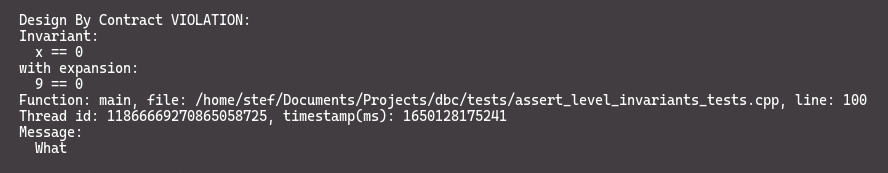
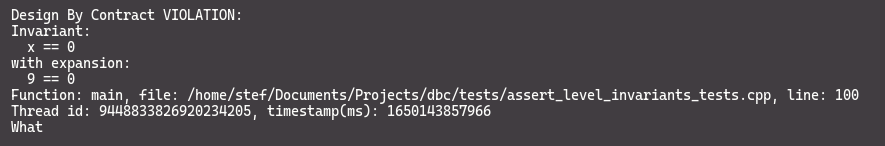
output formatting

Changed region(s): [[0.0, 0.274, 0.9763, 0.9041], [0.0, 0.0548, 0.2746, 0.2466]]

diff --git a/docs/html/error__reporting_8hpp_source.html b/docs/html/error__reporting_8hpp_source.html
@@ -130,7 +130,7 @@ $(function() {
 <div class="line"><a name="l00076"></a><span class="lineno">   76</span>&#160;    }</div>
 <div class="line"><a name="l00077"></a><span class="lineno">   77</span>&#160;}</div>
 <div class="line"><a name="l00078"></a><span class="lineno">   78</span>&#160; </div>
-<div class="line"><a name="l00085"></a><span class="lineno"><a class="line" href="structdbc_1_1violation__context.html">   85</a></span>&#160;<span class="keyword">struct </span><a class="code" href="structdbc_1_1violation__context.html">violation_context</a> <span class="comment">// TODO add lhs and rhs operands and decompose</span></div>
+<div class="line"><a name="l00085"></a><span class="lineno"><a class="line" href="structdbc_1_1violation__context.html">   85</a></span>&#160;<span class="keyword">struct </span><a class="code" href="structdbc_1_1violation__context.html">violation_context</a></div>
 <div class="line"><a name="l00086"></a><span class="lineno">   86</span>&#160;{</div>
 <div class="line"><a name="l00087"></a><span class="lineno">   87</span>&#160;    <a class="code" href="group__error__reporting.html#gaa0efa60436efa5fe05a0ca695bbaeba4">contract</a> type;</div>
 <div class="line"><a name="l00088"></a><span class="lineno">   88</span>&#160;    std::string_view condition; <span class="comment">// a boolean expression string_view representation, always false</span></div>
@@ -147,103 +147,105 @@ $(function() {
 <div class="line"><a name="l00099"></a><span class="lineno">   99</span>&#160;};</div>
 <div class="line"><a name="l00100"></a><span class="lineno">  100</span>&#160; </div>
 <div class="line"><a name="l00117"></a><span class="lineno"><a class="line" href="group__error__reporting.html#ga2bb10c5d751d9455eb6369a73ec3b53e">  117</a></span>&#160;<span class="keyword">auto</span> <a class="code" href="group__error__reporting.html#ga2bb10c5d751d9455eb6369a73ec3b53e">operator&lt;&lt;</a>(std::ostream&amp; os, <span class="keyword">const</span> <a class="code" href="structdbc_1_1violation__context.html">violation_context</a>&amp; context) -&gt; std::ostream&amp;;</div>
-<div class="line"><a name="l00118"></a><span class="lineno">  118</span>&#160;<span class="comment">// TODO Colors!</span></div>
-<div class="line"><a name="l00119"></a><span class="lineno">  119</span>&#160; </div>
-<div class="line"><a name="l00120"></a><span class="lineno">  120</span>&#160;<span class="keyword">namespace </span>details</div>
-<div class="line"><a name="l00121"></a><span class="lineno">  121</span>&#160;{</div>
-<div class="line"><a name="l00122"></a><span class="lineno">  122</span>&#160;    <span class="comment">// Produces a violation context.</span></div>
-<div class="line"><a name="l00124"></a><span class="lineno">  124</span>&#160;<span class="comment"></span>    <span class="keyword">auto</span> make_context(<a class="code" href="group__error__reporting.html#gaa0efa60436efa5fe05a0ca695bbaeba4">contract</a> type, std::string_view condition, <span class="keyword">const</span> std::string&amp; decomposition,</div>
-<div class="line"><a name="l00125"></a><span class="lineno">  125</span>&#160;                      std::string_view <span class="keyword">function</span>, std::string_view file, int32_t line,</div>
-<div class="line"><a name="l00126"></a><span class="lineno">  126</span>&#160;                      std::string_view message) -&gt; <a class="code" href="structdbc_1_1violation__context.html">violation_context</a>;</div>
-<div class="line"><a name="l00127"></a><span class="lineno">  127</span>&#160; </div>
-<div class="line"><a name="l00128"></a><span class="lineno">  128</span>&#160;    <span class="keyword">struct </span>lhs_decomposer; <span class="comment">// fwd declaration</span></div>
-<div class="line"><a name="l00129"></a><span class="lineno">  129</span>&#160; </div>
-<div class="line"><a name="l00130"></a><span class="lineno">  130</span>&#160;    <span class="comment">// Decomposes a boolean expression, given its left hand side operand</span></div>
-<div class="line"><a name="l00131"></a><span class="lineno">  131</span>&#160;    <span class="comment">// Makes use of the operator overloads to deduce the right hand operand and the operation.</span></div>
+<div class="line"><a name="l00118"></a><span class="lineno">  118</span>&#160; </div>
+<div class="line"><a name="l00119"></a><span class="lineno">  119</span>&#160;<span class="keyword">namespace </span>details</div>
+<div class="line"><a name="l00120"></a><span class="lineno">  120</span>&#160;{</div>
+<div class="line"><a name="l00121"></a><span class="lineno">  121</span>&#160;    <span class="comment">// Produces a violation context.</span></div>
+<div class="line"><a name="l00123"></a><span class="lineno">  123</span>&#160;<span class="comment"></span>    <span class="keyword">auto</span> make_context(<a class="code" href="group__error__reporting.html#gaa0efa60436efa5fe05a0ca695bbaeba4">contract</a> type, std::string_view condition, <span class="keyword">const</span> std::string&amp; decomposition,</div>
+<div class="line"><a name="l00124"></a><span class="lineno">  124</span>&#160;                      std::string_view <span class="keyword">function</span>, std::string_view file, int32_t line,</div>
+<div class="line"><a name="l00125"></a><span class="lineno">  125</span>&#160;                      std::string_view message) -&gt; <a class="code" href="structdbc_1_1violation__context.html">violation_context</a>;</div>
+<div class="line"><a name="l00126"></a><span class="lineno">  126</span>&#160; </div>
+<div class="line"><a name="l00127"></a><span class="lineno">  127</span>&#160;    <span class="comment">//</span></div>
+<div class="line"><a name="l00128"></a><span class="lineno">  128</span>&#160;    <span class="comment">// Credits to: https://theheisenbugblog.wordpress.com/2014/09/06/c-expression-decomposition/</span></div>
+<div class="line"><a name="l00129"></a><span class="lineno">  129</span>&#160;    <span class="comment">//</span></div>
+<div class="line"><a name="l00130"></a><span class="lineno">  130</span>&#160; </div>
+<div class="line"><a name="l00131"></a><span class="lineno">  131</span>&#160;    <span class="keyword">struct </span>lhs_decomposer; <span class="comment">// fwd declaration</span></div>
 <div class="line"><a name="l00132"></a><span class="lineno">  132</span>&#160; </div>
-<div class="line"><a name="l00133"></a><span class="lineno">  133</span>&#160;    <span class="keyword">class </span>rhs_decomposer</div>
-<div class="line"><a name="l00134"></a><span class="lineno">  134</span>&#160;    {</div>
-<div class="line"><a name="l00135"></a><span class="lineno">  135</span>&#160;    <span class="keyword">public</span>:</div>
-<div class="line"><a name="l00136"></a><span class="lineno">  136</span>&#160;        <span class="keyword">template</span> &lt;<span class="keyword">typename</span> T&gt;</div>
-<div class="line"><a name="l00137"></a><span class="lineno">  137</span>&#160;        <span class="keyword">explicit</span> rhs_decomposer(<span class="keyword">const</span> T&amp; lhs)</div>
-<div class="line"><a name="l00138"></a><span class="lineno">  138</span>&#160;        {</div>
-<div class="line"><a name="l00139"></a><span class="lineno">  139</span>&#160;            ss &lt;&lt; lhs;</div>
-<div class="line"><a name="l00140"></a><span class="lineno">  140</span>&#160;        }</div>
-<div class="line"><a name="l00141"></a><span class="lineno">  141</span>&#160; </div>
-<div class="line"><a name="l00142"></a><span class="lineno">  142</span>&#160;        <span class="keyword">template</span> &lt;<span class="keyword">typename</span> T&gt;</div>
-<div class="line"><a name="l00143"></a><span class="lineno">  143</span>&#160;        <span class="keyword">auto</span> operator==(<span class="keyword">const</span> T&amp; rhs) -&gt; <span class="keyword">const</span> <span class="keyword">auto</span>&amp;</div>
-<div class="line"><a name="l00144"></a><span class="lineno">  144</span>&#160;        {</div>
-<div class="line"><a name="l00145"></a><span class="lineno">  145</span>&#160;            ss &lt;&lt; <span class="stringliteral">&quot; == &quot;</span> &lt;&lt; rhs;</div>
-<div class="line"><a name="l00146"></a><span class="lineno">  146</span>&#160;            <span class="keywordflow">return</span> *<span class="keyword">this</span>;</div>
-<div class="line"><a name="l00147"></a><span class="lineno">  147</span>&#160;        }</div>
-<div class="line"><a name="l00148"></a><span class="lineno">  148</span>&#160; </div>
-<div class="line"><a name="l00149"></a><span class="lineno">  149</span>&#160;        <span class="keyword">template</span> &lt;<span class="keyword">typename</span> T&gt;</div>
-<div class="line"><a name="l00150"></a><span class="lineno">  150</span>&#160;        <span class="keyword">auto</span> operator!=(<span class="keyword">const</span> T&amp; rhs) -&gt; <span class="keyword">const</span> <span class="keyword">auto</span>&amp;</div>
-<div class="line"><a name="l00151"></a><span class="lineno">  151</span>&#160;        {</div>
-<div class="line"><a name="l00152"></a><span class="lineno">  152</span>&#160;            ss &lt;&lt; <span class="stringliteral">&quot; != &quot;</span> &lt;&lt; rhs;</div>
-<div class="line"><a name="l00153"></a><span class="lineno">  153</span>&#160;            <span class="keywordflow">return</span> *<span class="keyword">this</span>;</div>
-<div class="line"><a name="l00154"></a><span class="lineno">  154</span>&#160;        }</div>
-<div class="line"><a name="l00155"></a><span class="lineno">  155</span>&#160; </div>
-<div class="line"><a name="l00156"></a><span class="lineno">  156</span>&#160;        <span class="keyword">template</span> &lt;<span class="keyword">typename</span> T&gt;</div>
-<div class="line"><a name="l00157"></a><span class="lineno">  157</span>&#160;        <span class="keyword">auto</span> operator&lt;(<span class="keyword">const</span> T&amp; rhs) -&gt; <span class="keyword">const</span> <span class="keyword">auto</span>&amp;</div>
-<div class="line"><a name="l00158"></a><span class="lineno">  158</span>&#160;        {</div>
-<div class="line"><a name="l00159"></a><span class="lineno">  159</span>&#160;            ss &lt;&lt; <span class="stringliteral">&quot; &lt; &quot;</span> &lt;&lt; rhs;</div>
-<div class="line"><a name="l00160"></a><span class="lineno">  160</span>&#160;            <span class="keywordflow">return</span> *<span class="keyword">this</span>;</div>
-<div class="line"><a name="l00161"></a><span class="lineno">  161</span>&#160;        }</div>
-<div class="line"><a name="l00162"></a><span class="lineno">  162</span>&#160; </div>
-<div class="line"><a name="l00163"></a><span class="lineno">  163</span>&#160;        <span class="keyword">template</span> &lt;<span class="keyword">typename</span> T&gt;</div>
-<div class="line"><a name="l00164"></a><span class="lineno">  164</span>&#160;        <span class="keyword">auto</span> operator&gt;(<span class="keyword">const</span> T&amp; rhs) -&gt; <span class="keyword">const</span> <span class="keyword">auto</span>&amp;</div>
-<div class="line"><a name="l00165"></a><span class="lineno">  165</span>&#160;        {</div>
-<div class="line"><a name="l00166"></a><span class="lineno">  166</span>&#160;            ss &lt;&lt; <span class="stringliteral">&quot; &gt; &quot;</span> &lt;&lt; rhs;</div>
-<div class="line"><a name="l00167"></a><span class="lineno">  167</span>&#160;            <span class="keywordflow">return</span> *<span class="keyword">this</span>;</div>
-<div class="line"><a name="l00168"></a><span class="lineno">  168</span>&#160;        }</div>
-<div class="line"><a name="l00169"></a><span class="lineno">  169</span>&#160; </div>
-<div class="line"><a name="l00170"></a><span class="lineno">  170</span>&#160;        <span class="keyword">template</span> &lt;<span class="keyword">typename</span> T&gt;</div>
-<div class="line"><a name="l00171"></a><span class="lineno">  171</span>&#160;        <span class="keyword">auto</span> operator&lt;=(<span class="keyword">const</span> T&amp; rhs) -&gt; <span class="keyword">const</span> <span class="keyword">auto</span>&amp;</div>
-<div class="line"><a name="l00172"></a><span class="lineno">  172</span>&#160;        {</div>
-<div class="line"><a name="l00173"></a><span class="lineno">  173</span>&#160;            ss &lt;&lt; <span class="stringliteral">&quot; &lt;= &quot;</span> &lt;&lt; rhs;</div>
-<div class="line"><a name="l00174"></a><span class="lineno">  174</span>&#160;            <span class="keywordflow">return</span> *<span class="keyword">this</span>;</div>
-<div class="line"><a name="l00175"></a><span class="lineno">  175</span>&#160;        }</div>
-<div class="line"><a name="l00176"></a><span class="lineno">  176</span>&#160; </div>
-<div class="line"><a name="l00177"></a><span class="lineno">  177</span>&#160;        <span class="keyword">template</span> &lt;<span class="keyword">typename</span> T&gt;</div>
-<div class="line"><a name="l00178"></a><span class="lineno">  178</span>&#160;        <span class="keyword">auto</span> operator&gt;=(<span class="keyword">const</span> T&amp; rhs) -&gt; <span class="keyword">const</span> <span class="keyword">auto</span>&amp;</div>
-<div class="line"><a name="l00179"></a><span class="lineno">  179</span>&#160;        {</div>
-<div class="line"><a name="l00180"></a><span class="lineno">  180</span>&#160;            ss &lt;&lt; <span class="stringliteral">&quot; &gt;= &quot;</span> &lt;&lt; rhs;</div>
-<div class="line"><a name="l00181"></a><span class="lineno">  181</span>&#160;            <span class="keywordflow">return</span> *<span class="keyword">this</span>;</div>
-<div class="line"><a name="l00182"></a><span class="lineno">  182</span>&#160;        }</div>
-<div class="line"><a name="l00183"></a><span class="lineno">  183</span>&#160; </div>
-<div class="line"><a name="l00184"></a><span class="lineno">  184</span>&#160;        <span class="comment">// Returns an std::string decomposition of the boolean expression, of the form:</span></div>
-<div class="line"><a name="l00185"></a><span class="lineno">  185</span>&#160;        <span class="comment">//&quot;&#39;lhs&#39; &#39;operation&#39; &#39;rhs&#39;&quot;&quot;</span></div>
-<div class="line"><a name="l00186"></a><span class="lineno">  186</span>&#160;        <span class="keyword">auto</span> decomposition() <span class="keyword">const</span> -&gt; <span class="keyword">auto</span> { <span class="keywordflow">return</span> ss.str(); }</div>
-<div class="line"><a name="l00187"></a><span class="lineno">  187</span>&#160; </div>
-<div class="line"><a name="l00188"></a><span class="lineno">  188</span>&#160;    <span class="keyword">private</span>:</div>
-<div class="line"><a name="l00189"></a><span class="lineno">  189</span>&#160;        std::stringstream ss;</div>
-<div class="line"><a name="l00190"></a><span class="lineno">  190</span>&#160;    };</div>
-<div class="line"><a name="l00191"></a><span class="lineno">  191</span>&#160; </div>
-<div class="line"><a name="l00192"></a><span class="lineno">  192</span>&#160;    <span class="comment">// Hepler struct, forwards a left hand side opperand to a right hand side decomposer</span></div>
-<div class="line"><a name="l00193"></a><span class="lineno">  193</span>&#160;    <span class="keyword">struct </span>lhs_decomposer</div>
-<div class="line"><a name="l00194"></a><span class="lineno">  194</span>&#160;    {</div>
-<div class="line"><a name="l00195"></a><span class="lineno">  195</span>&#160;        <span class="keyword">template</span> &lt;<span class="keyword">typename</span> T&gt;</div>
-<div class="line"><a name="l00196"></a><span class="lineno">  196</span>&#160;        <span class="keyword">auto</span> operator-&gt;*(<span class="keyword">const</span> T&amp; lhs) <span class="keyword">const</span> -&gt; <span class="keyword">auto</span></div>
-<div class="line"><a name="l00197"></a><span class="lineno">  197</span>&#160;        {</div>
-<div class="line"><a name="l00198"></a><span class="lineno">  198</span>&#160;            <span class="keywordflow">return</span> rhs_decomposer{lhs};</div>
-<div class="line"><a name="l00199"></a><span class="lineno">  199</span>&#160;        }</div>
-<div class="line"><a name="l00200"></a><span class="lineno">  200</span>&#160;    };</div>
-<div class="line"><a name="l00201"></a><span class="lineno">  201</span>&#160; </div>
-<div class="line"><a name="l00202"></a><span class="lineno">  202</span>&#160;} <span class="comment">// namespace details</span></div>
+<div class="line"><a name="l00133"></a><span class="lineno">  133</span>&#160;    <span class="comment">// Decomposes a boolean expression, given its left hand side operand</span></div>
+<div class="line"><a name="l00134"></a><span class="lineno">  134</span>&#160;    <span class="comment">// Makes use of the operator overloads to deduce the right hand operand and the operation.</span></div>
+<div class="line"><a name="l00135"></a><span class="lineno">  135</span>&#160;    <span class="keyword">class </span>rhs_decomposer</div>
+<div class="line"><a name="l00136"></a><span class="lineno">  136</span>&#160;    {</div>
+<div class="line"><a name="l00137"></a><span class="lineno">  137</span>&#160;    <span class="keyword">public</span>:</div>
+<div class="line"><a name="l00138"></a><span class="lineno">  138</span>&#160;        <span class="keyword">template</span> &lt;<span class="keyword">typename</span> T&gt;</div>
+<div class="line"><a name="l00139"></a><span class="lineno">  139</span>&#160;        <span class="keyword">explicit</span> rhs_decomposer(<span class="keyword">const</span> T&amp; lhs)</div>
+<div class="line"><a name="l00140"></a><span class="lineno">  140</span>&#160;        {</div>
+<div class="line"><a name="l00141"></a><span class="lineno">  141</span>&#160;            ss &lt;&lt; lhs;</div>
+<div class="line"><a name="l00142"></a><span class="lineno">  142</span>&#160;        }</div>
+<div class="line"><a name="l00143"></a><span class="lineno">  143</span>&#160; </div>
+<div class="line"><a name="l00144"></a><span class="lineno">  144</span>&#160;        <span class="keyword">template</span> &lt;<span class="keyword">typename</span> T&gt;</div>
+<div class="line"><a name="l00145"></a><span class="lineno">  145</span>&#160;        <span class="keyword">auto</span> operator==(<span class="keyword">const</span> T&amp; rhs) -&gt; <span class="keyword">const</span> <span class="keyword">auto</span>&amp;</div>
+<div class="line"><a name="l00146"></a><span class="lineno">  146</span>&#160;        {</div>
+<div class="line"><a name="l00147"></a><span class="lineno">  147</span>&#160;            ss &lt;&lt; <span class="stringliteral">&quot; == &quot;</span> &lt;&lt; rhs;</div>
+<div class="line"><a name="l00148"></a><span class="lineno">  148</span>&#160;            <span class="keywordflow">return</span> *<span class="keyword">this</span>;</div>
+<div class="line"><a name="l00149"></a><span class="lineno">  149</span>&#160;        }</div>
+<div class="line"><a name="l00150"></a><span class="lineno">  150</span>&#160; </div>
+<div class="line"><a name="l00151"></a><span class="lineno">  151</span>&#160;        <span class="keyword">template</span> &lt;<span class="keyword">typename</span> T&gt;</div>
+<div class="line"><a name="l00152"></a><span class="lineno">  152</span>&#160;        <span class="keyword">auto</span> operator!=(<span class="keyword">const</span> T&amp; rhs) -&gt; <span class="keyword">const</span> <span class="keyword">auto</span>&amp;</div>
+<div class="line"><a name="l00153"></a><span class="lineno">  153</span>&#160;        {</div>
+<div class="line"><a name="l00154"></a><span class="lineno">  154</span>&#160;            ss &lt;&lt; <span class="stringliteral">&quot; != &quot;</span> &lt;&lt; rhs;</div>
+<div class="line"><a name="l00155"></a><span class="lineno">  155</span>&#160;            <span class="keywordflow">return</span> *<span class="keyword">this</span>;</div>
+<div class="line"><a name="l00156"></a><span class="lineno">  156</span>&#160;        }</div>
+<div class="line"><a name="l00157"></a><span class="lineno">  157</span>&#160; </div>
+<div class="line"><a name="l00158"></a><span class="lineno">  158</span>&#160;        <span class="keyword">template</span> &lt;<span class="keyword">typename</span> T&gt;</div>
+<div class="line"><a name="l00159"></a><span class="lineno">  159</span>&#160;        <span class="keyword">auto</span> operator&lt;(<span class="keyword">const</span> T&amp; rhs) -&gt; <span class="keyword">const</span> <span class="keyword">auto</span>&amp;</div>
+<div class="line"><a name="l00160"></a><span class="lineno">  160</span>&#160;        {</div>
+<div class="line"><a name="l00161"></a><span class="lineno">  161</span>&#160;            ss &lt;&lt; <span class="stringliteral">&quot; &lt; &quot;</span> &lt;&lt; rhs;</div>
+<div class="line"><a name="l00162"></a><span class="lineno">  162</span>&#160;            <span class="keywordflow">return</span> *<span class="keyword">this</span>;</div>
+<div class="line"><a name="l00163"></a><span class="lineno">  163</span>&#160;        }</div>
+<div class="line"><a name="l00164"></a><span class="lineno">  164</span>&#160; </div>
+<div class="line"><a name="l00165"></a><span class="lineno">  165</span>&#160;        <span class="keyword">template</span> &lt;<span class="keyword">typename</span> T&gt;</div>
+<div class="line"><a name="l00166"></a><span class="lineno">  166</span>&#160;        <span class="keyword">auto</span> operator&gt;(<span class="keyword">const</span> T&amp; rhs) -&gt; <span class="keyword">const</span> <span class="keyword">auto</span>&amp;</div>
+<div class="line"><a name="l00167"></a><span class="lineno">  167</span>&#160;        {</div>
+<div class="line"><a name="l00168"></a><span class="lineno">  168</span>&#160;            ss &lt;&lt; <span class="stringliteral">&quot; &gt; &quot;</span> &lt;&lt; rhs;</div>
+<div class="line"><a name="l00169"></a><span class="lineno">  169</span>&#160;            <span class="keywordflow">return</span> *<span class="keyword">this</span>;</div>
+<div class="line"><a name="l00170"></a><span class="lineno">  170</span>&#160;        }</div>
+<div class="line"><a name="l00171"></a><span class="lineno">  171</span>&#160; </div>
+<div class="line"><a name="l00172"></a><span class="lineno">  172</span>&#160;        <span class="keyword">template</span> &lt;<span class="keyword">typename</span> T&gt;</div>
+<div class="line"><a name="l00173"></a><span class="lineno">  173</span>&#160;        <span class="keyword">auto</span> operator&lt;=(<span class="keyword">const</span> T&amp; rhs) -&gt; <span class="keyword">const</span> <span class="keyword">auto</span>&amp;</div>
+<div class="line"><a name="l00174"></a><span class="lineno">  174</span>&#160;        {</div>
+<div class="line"><a name="l00175"></a><span class="lineno">  175</span>&#160;            ss &lt;&lt; <span class="stringliteral">&quot; &lt;= &quot;</span> &lt;&lt; rhs;</div>
+<div class="line"><a name="l00176"></a><span class="lineno">  176</span>&#160;            <span class="keywordflow">return</span> *<span class="keyword">this</span>;</div>
+<div class="line"><a name="l00177"></a><span class="lineno">  177</span>&#160;        }</div>
+<div class="line"><a name="l00178"></a><span class="lineno">  178</span>&#160; </div>
+<div class="line"><a name="l00179"></a><span class="lineno">  179</span>&#160;        <span class="keyword">template</span> &lt;<span class="keyword">typename</span> T&gt;</div>
+<div class="line"><a name="l00180"></a><span class="lineno">  180</span>&#160;        <span class="keyword">auto</span> operator&gt;=(<span class="keyword">const</span> T&amp; rhs) -&gt; <span class="keyword">const</span> <span class="keyword">auto</span>&amp;</div>
+<div class="line"><a name="l00181"></a><span class="lineno">  181</span>&#160;        {</div>
+<div class="line"><a name="l00182"></a><span class="lineno">  182</span>&#160;            ss &lt;&lt; <span class="stringliteral">&quot; &gt;= &quot;</span> &lt;&lt; rhs;</div>
+<div class="line"><a name="l00183"></a><span class="lineno">  183</span>&#160;            <span class="keywordflow">return</span> *<span class="keyword">this</span>;</div>
+<div class="line"><a name="l00184"></a><span class="lineno">  184</span>&#160;        }</div>
+<div class="line"><a name="l00185"></a><span class="lineno">  185</span>&#160; </div>
+<div class="line"><a name="l00186"></a><span class="lineno">  186</span>&#160;        <span class="comment">// Returns an std::string decomposition of the boolean expression, of the form:</span></div>
+<div class="line"><a name="l00187"></a><span class="lineno">  187</span>&#160;        <span class="comment">//&quot;&#39;lhs&#39; &#39;operation&#39; &#39;rhs&#39;&quot;&quot;</span></div>
+<div class="line"><a name="l00188"></a><span class="lineno">  188</span>&#160;        <span class="keyword">auto</span> decomposition() <span class="keyword">const</span> -&gt; <span class="keyword">auto</span> { <span class="keywordflow">return</span> ss.str(); }</div>
+<div class="line"><a name="l00189"></a><span class="lineno">  189</span>&#160; </div>
+<div class="line"><a name="l00190"></a><span class="lineno">  190</span>&#160;    <span class="keyword">private</span>:</div>
+<div class="line"><a name="l00191"></a><span class="lineno">  191</span>&#160;        std::stringstream ss;</div>
+<div class="line"><a name="l00192"></a><span class="lineno">  192</span>&#160;    };</div>
+<div class="line"><a name="l00193"></a><span class="lineno">  193</span>&#160; </div>
+<div class="line"><a name="l00194"></a><span class="lineno">  194</span>&#160;    <span class="comment">// Hepler struct, forwards a left hand side opperand to a right hand side decomposer</span></div>
+<div class="line"><a name="l00195"></a><span class="lineno">  195</span>&#160;    <span class="keyword">struct </span>lhs_decomposer</div>
+<div class="line"><a name="l00196"></a><span class="lineno">  196</span>&#160;    {</div>
+<div class="line"><a name="l00197"></a><span class="lineno">  197</span>&#160;        <span class="keyword">template</span> &lt;<span class="keyword">typename</span> T&gt;</div>
+<div class="line"><a name="l00198"></a><span class="lineno">  198</span>&#160;        <span class="keyword">auto</span> operator-&gt;*(<span class="keyword">const</span> T&amp; lhs) <span class="keyword">const</span> -&gt; <span class="keyword">auto</span></div>
+<div class="line"><a name="l00199"></a><span class="lineno">  199</span>&#160;        {</div>
+<div class="line"><a name="l00200"></a><span class="lineno">  200</span>&#160;            <span class="keywordflow">return</span> rhs_decomposer{lhs};</div>
+<div class="line"><a name="l00201"></a><span class="lineno">  201</span>&#160;        }</div>
+<div class="line"><a name="l00202"></a><span class="lineno">  202</span>&#160;    };</div>
 <div class="line"><a name="l00203"></a><span class="lineno">  203</span>&#160; </div>
-<div class="line"><a name="l00204"></a><span class="lineno">  204</span>&#160;} <span class="comment">// namespace dbc</span></div>
+<div class="line"><a name="l00204"></a><span class="lineno">  204</span>&#160;} <span class="comment">// namespace details</span></div>
 <div class="line"><a name="l00205"></a><span class="lineno">  205</span>&#160; </div>
-<div class="line"><a name="l00206"></a><span class="lineno">  206</span>&#160;<span class="comment">// Utility macro to obtain an std::string decomposition of a boolean expression</span></div>
-<div class="line"><a name="l00207"></a><span class="lineno">  207</span>&#160;<span class="preprocessor">#define DBC_DECOMPOSE(expr)                                                                        \</span></div>
-<div class="line"><a name="l00208"></a><span class="lineno">  208</span>&#160;<span class="preprocessor">    ([]() -&gt; dbc::details::lhs_decomposer { return {}; }()-&gt;*expr).decomposition()</span></div>
-<div class="line"><a name="l00209"></a><span class="lineno">  209</span>&#160; </div>
-<div class="line"><a name="l00210"></a><span class="lineno">  210</span>&#160;<span class="comment">// Utility macro to obtain __FUNCTION__, __FILE__ and __LINE__</span></div>
-<div class="line"><a name="l00211"></a><span class="lineno">  211</span>&#160;<span class="preprocessor">#define DBC_GET_CONTEXT(type, condition, message)                                                  \</span></div>
-<div class="line"><a name="l00212"></a><span class="lineno">  212</span>&#160;<span class="preprocessor">    dbc::details::make_context(type, #condition, DBC_DECOMPOSE(condition), __FUNCTION__, __FILE__, \</span></div>
-<div class="line"><a name="l00213"></a><span class="lineno">  213</span>&#160;<span class="preprocessor">                               __LINE__, message)</span></div>
-<div class="line"><a name="l00214"></a><span class="lineno">  214</span>&#160; </div>
-<div class="line"><a name="l00217"></a><span class="lineno">  217</span>&#160;<span class="preprocessor">#endif </span><span class="comment">// DBC_ERROR_REPORTING_H</span></div>
+<div class="line"><a name="l00206"></a><span class="lineno">  206</span>&#160;} <span class="comment">// namespace dbc</span></div>
+<div class="line"><a name="l00207"></a><span class="lineno">  207</span>&#160; </div>
+<div class="line"><a name="l00208"></a><span class="lineno">  208</span>&#160;<span class="comment">// Utility macro to obtain an std::string decomposition of a boolean expression</span></div>
+<div class="line"><a name="l00209"></a><span class="lineno">  209</span>&#160;<span class="preprocessor">#define DBC_DECOMPOSE(expr)                                                                        \</span></div>
+<div class="line"><a name="l00210"></a><span class="lineno">  210</span>&#160;<span class="preprocessor">    ([]() -&gt; dbc::details::lhs_decomposer { return {}; }()-&gt;*expr).decomposition()</span></div>
+<div class="line"><a name="l00211"></a><span class="lineno">  211</span>&#160; </div>
+<div class="line"><a name="l00212"></a><span class="lineno">  212</span>&#160;<span class="comment">// Utility macro to obtain __FUNCTION__, __FILE__ and __LINE__</span></div>
+<div class="line"><a name="l00213"></a><span class="lineno">  213</span>&#160;<span class="preprocessor">#define DBC_GET_CONTEXT(type, condition, message)                                                  \</span></div>
+<div class="line"><a name="l00214"></a><span class="lineno">  214</span>&#160;<span class="preprocessor">    dbc::details::make_context(type, #condition, DBC_DECOMPOSE(condition), __FUNCTION__, __FILE__, \</span></div>
+<div class="line"><a name="l00215"></a><span class="lineno">  215</span>&#160;<span class="preprocessor">                               __LINE__, message)</span></div>
+<div class="line"><a name="l00216"></a><span class="lineno">  216</span>&#160; </div>
+<div class="line"><a name="l00219"></a><span class="lineno">  219</span>&#160;<span class="preprocessor">#endif </span><span class="comment">// DBC_ERROR_REPORTING_H</span></div>
 <div class="ttc" id="agroup__error__reporting_html_ga2bb10c5d751d9455eb6369a73ec3b53e"><div class="ttname"><a href="group__error__reporting.html#ga2bb10c5d751d9455eb6369a73ec3b53e">dbc::operator&lt;&lt;</a></div><div class="ttdeci">auto operator&lt;&lt;(std::ostream &amp;os, const violation_context &amp;context) -&gt; std::ostream &amp;</div><div class="ttdoc">Operator &lt;&lt; overload for a dbc::violation_context.</div></div>
 <div class="ttc" id="agroup__error__reporting_html_ga50e2d3f289ff17ebfd01057cd2060741"><div class="ttname"><a href="group__error__reporting.html#ga50e2d3f289ff17ebfd01057cd2060741">dbc::to_string_view</a></div><div class="ttdeci">constexpr auto to_string_view(contract type) noexcept</div><div class="ttdoc">Returns an std::string_view representation of a dbc::contract.</div><div class="ttdef"><b>Definition:</b> error_reporting.hpp:61</div></div>
 <div class="ttc" id="agroup__error__reporting_html_gaa0efa60436efa5fe05a0ca695bbaeba4"><div class="ttname"><a href="group__error__reporting.html#gaa0efa60436efa5fe05a0ca695bbaeba4">dbc::contract</a></div><div class="ttdeci">contract</div><div class="ttdoc">A Design By Contract contract enumeration.</div><div class="ttdef"><b>Definition:</b> error_reporting.hpp:47</div></div>

diff --git a/docs/html/error__handling_8hpp_source.html b/docs/html/error__handling_8hpp_source.html
@@ -121,30 +121,28 @@ $(function() {
 <div class="line"><a name="l00075"></a><span class="lineno">   75</span>&#160;    <a class="code" href="structdbc_1_1violation__context.html">violation_context</a> m_context;</div>
 <div class="line"><a name="l00076"></a><span class="lineno">   76</span>&#160;};</div>
 <div class="line"><a name="l00077"></a><span class="lineno">   77</span>&#160; </div>
-<div class="line"><a name="l00078"></a><span class="lineno">   78</span>&#160;<span class="comment">// TODO Add stack trace printer</span></div>
-<div class="line"><a name="l00079"></a><span class="lineno">   79</span>&#160; </div>
-<div class="line"><a name="l00087"></a><span class="lineno"><a class="line" href="group__error__handling.html#ga13bd65f3b8a1a207b5f54656ea2a5ffb">   87</a></span>&#160;[[noreturn]] <span class="keywordtype">void</span> <a class="code" href="group__error__handling.html#ga13bd65f3b8a1a207b5f54656ea2a5ffb">abort_handler</a>(<span class="keyword">const</span> <a class="code" href="structdbc_1_1violation__context.html">violation_context</a>&amp; context);</div>
-<div class="line"><a name="l00088"></a><span class="lineno">   88</span>&#160; </div>
-<div class="line"><a name="l00094"></a><span class="lineno"><a class="line" href="group__error__handling.html#gaefd993125ae87d0ed1d16a1be978e6fb">   94</a></span>&#160;[[noreturn]] <span class="keyword">inline</span> <span class="keywordtype">void</span> <a class="code" href="group__error__handling.html#gaefd993125ae87d0ed1d16a1be978e6fb">throw_handler</a>(<span class="keyword">const</span> <a class="code" href="structdbc_1_1violation__context.html">violation_context</a>&amp; context)</div>
-<div class="line"><a name="l00095"></a><span class="lineno">   95</span>&#160;{</div>
-<div class="line"><a name="l00096"></a><span class="lineno">   96</span>&#160;    <span class="keywordflow">throw</span> <a class="code" href="classdbc_1_1contract__violation.html">contract_violation</a>{context};</div>
-<div class="line"><a name="l00097"></a><span class="lineno">   97</span>&#160;}</div>
-<div class="line"><a name="l00098"></a><span class="lineno">   98</span>&#160; </div>
-<div class="line"><a name="l00099"></a><span class="lineno">   99</span>&#160;<span class="keyword">namespace </span>details</div>
-<div class="line"><a name="l00100"></a><span class="lineno">  100</span>&#160;{</div>
-<div class="line"><a name="l00101"></a><span class="lineno">  101</span>&#160;    <span class="comment">// Forwards the reported violation to the set violation handler.</span></div>
-<div class="line"><a name="l00103"></a><span class="lineno">  103</span>&#160;<span class="comment"></span>    <span class="keywordtype">void</span> handle(<span class="keyword">const</span> violation_context&amp; context);</div>
+<div class="line"><a name="l00085"></a><span class="lineno"><a class="line" href="group__error__handling.html#ga13bd65f3b8a1a207b5f54656ea2a5ffb">   85</a></span>&#160;[[noreturn]] <span class="keywordtype">void</span> <a class="code" href="group__error__handling.html#ga13bd65f3b8a1a207b5f54656ea2a5ffb">abort_handler</a>(<span class="keyword">const</span> <a class="code" href="structdbc_1_1violation__context.html">violation_context</a>&amp; context);</div>
+<div class="line"><a name="l00086"></a><span class="lineno">   86</span>&#160; </div>
+<div class="line"><a name="l00092"></a><span class="lineno"><a class="line" href="group__error__handling.html#gaefd993125ae87d0ed1d16a1be978e6fb">   92</a></span>&#160;[[noreturn]] <span class="keyword">inline</span> <span class="keywordtype">void</span> <a class="code" href="group__error__handling.html#gaefd993125ae87d0ed1d16a1be978e6fb">throw_handler</a>(<span class="keyword">const</span> <a class="code" href="structdbc_1_1violation__context.html">violation_context</a>&amp; context)</div>
+<div class="line"><a name="l00093"></a><span class="lineno">   93</span>&#160;{</div>
+<div class="line"><a name="l00094"></a><span class="lineno">   94</span>&#160;    <span class="keywordflow">throw</span> <a class="code" href="classdbc_1_1contract__violation.html">contract_violation</a>{context};</div>
+<div class="line"><a name="l00095"></a><span class="lineno">   95</span>&#160;}</div>
+<div class="line"><a name="l00096"></a><span class="lineno">   96</span>&#160; </div>
+<div class="line"><a name="l00097"></a><span class="lineno">   97</span>&#160;<span class="keyword">namespace </span>details</div>
+<div class="line"><a name="l00098"></a><span class="lineno">   98</span>&#160;{</div>
+<div class="line"><a name="l00099"></a><span class="lineno">   99</span>&#160;    <span class="comment">// Forwards the reported violation to the set violation handler.</span></div>
+<div class="line"><a name="l00101"></a><span class="lineno">  101</span>&#160;<span class="comment"></span>    <span class="keywordtype">void</span> handle(<span class="keyword">const</span> violation_context&amp; context);</div>
+<div class="line"><a name="l00102"></a><span class="lineno">  102</span>&#160; </div>
+<div class="line"><a name="l00103"></a><span class="lineno">  103</span>&#160;} <span class="comment">// namespace details</span></div>
 <div class="line"><a name="l00104"></a><span class="lineno">  104</span>&#160; </div>
-<div class="line"><a name="l00105"></a><span class="lineno">  105</span>&#160;} <span class="comment">// namespace details</span></div>
+<div class="line"><a name="l00105"></a><span class="lineno">  105</span>&#160;} <span class="comment">// namespace dbc</span></div>
 <div class="line"><a name="l00106"></a><span class="lineno">  106</span>&#160; </div>
-<div class="line"><a name="l00107"></a><span class="lineno">  107</span>&#160;} <span class="comment">// namespace dbc</span></div>
-<div class="line"><a name="l00108"></a><span class="lineno">  108</span>&#160; </div>
-<div class="line"><a name="l00111"></a><span class="lineno">  111</span>&#160;<span class="preprocessor">#endif </span><span class="comment">// DBC_ERROR_HANDLING_H</span></div>
+<div class="line"><a name="l00109"></a><span class="lineno">  109</span>&#160;<span class="preprocessor">#endif </span><span class="comment">// DBC_ERROR_HANDLING_H</span></div>
 <div class="ttc" id="aclassdbc_1_1contract__violation_html"><div class="ttname"><a href="classdbc_1_1contract__violation.html">dbc::contract_violation</a></div><div class="ttdoc">A generic contract violation exception. Encapsulates preconditions, postconditions and invariants vio...</div><div class="ttdef"><b>Definition:</b> error_handling.hpp:61</div></div>
 <div class="ttc" id="agroup__error__handling_html_ga13bd65f3b8a1a207b5f54656ea2a5ffb"><div class="ttname"><a href="group__error__handling.html#ga13bd65f3b8a1a207b5f54656ea2a5ffb">dbc::abort_handler</a></div><div class="ttdeci">void abort_handler(const violation_context &amp;context)</div><div class="ttdoc">Handles a dbc::violation_context by aborting. Logs the violation to std::cerr.</div></div>
 <div class="ttc" id="agroup__error__handling_html_ga73decc07cc430b9d69434d3ef6c99c45"><div class="ttname"><a href="group__error__handling.html#ga73decc07cc430b9d69434d3ef6c99c45">dbc::contract_violation::context</a></div><div class="ttdeci">auto context() const noexcept -&gt; const auto &amp;</div><div class="ttdoc">Returns a read access to the violation context that was handled from this instance.</div><div class="ttdef"><b>Definition:</b> error_handling.hpp:72</div></div>
 <div class="ttc" id="agroup__error__handling_html_ga7c24e1c4ffeca257a874893d5ce53443"><div class="ttname"><a href="group__error__handling.html#ga7c24e1c4ffeca257a874893d5ce53443">dbc::violation_handler</a></div><div class="ttdeci">std::function&lt; void(const violation_context &amp;)&gt; violation_handler</div><div class="ttdoc">A violation context, error handler, function alias.</div><div class="ttdef"><b>Definition:</b> error_handling.hpp:45</div></div>
-<div class="ttc" id="agroup__error__handling_html_gaefd993125ae87d0ed1d16a1be978e6fb"><div class="ttname"><a href="group__error__handling.html#gaefd993125ae87d0ed1d16a1be978e6fb">dbc::throw_handler</a></div><div class="ttdeci">void throw_handler(const violation_context &amp;context)</div><div class="ttdoc">Handles a dbc::violation_context by throwing a dbc::contract_violation error.</div><div class="ttdef"><b>Definition:</b> error_handling.hpp:94</div></div>
+<div class="ttc" id="agroup__error__handling_html_gaefd993125ae87d0ed1d16a1be978e6fb"><div class="ttname"><a href="group__error__handling.html#gaefd993125ae87d0ed1d16a1be978e6fb">dbc::throw_handler</a></div><div class="ttdeci">void throw_handler(const violation_context &amp;context)</div><div class="ttdoc">Handles a dbc::violation_context by throwing a dbc::contract_violation error.</div><div class="ttdef"><b>Definition:</b> error_handling.hpp:92</div></div>
 <div class="ttc" id="agroup__error__handling_html_gaf7cc482a6fab92e183d9ca1f057e3ef2"><div class="ttname"><a href="group__error__handling.html#gaf7cc482a6fab92e183d9ca1f057e3ef2">dbc::set_violation_handler</a></div><div class="ttdeci">void set_violation_handler(const violation_handler &amp;handler) noexcept</div><div class="ttdoc">Sets the global violation error handler function. Any reported contract violations will be handled fr...</div></div>
 <div class="ttc" id="astructdbc_1_1violation__context_html"><div class="ttname"><a href="structdbc_1_1violation__context.html">dbc::violation_context</a></div><div class="ttdoc">An aggregate containing the context of a contract violation. Provides useful debug info concerning th...</div><div class="ttdef"><b>Definition:</b> error_reporting.hpp:86</div></div>
 </div><!-- fragment --></div><!-- contents -->

diff --git a/src/error_reporting.cpp b/src/error_reporting.cpp
@@ -38,8 +38,8 @@ auto operator<<(std::ostream& os, const violation_context& context) -> std::ostr
               << "\nwith expansion:\n  " << context.decomposition
               << "\nFunction: " << context.function << ", file: " << context.file
               << ", line: " << context.line << "\nThread id: " << context.thread_id
-              << ", timestamp(ms): " << context.timestamp << "\nMessage:\n  " << context.message
-              << '\n';
+              << ", timestamp(ms): " << context.timestamp << '\n'
+              << context.message << '\n';
 }
 
 namespace
